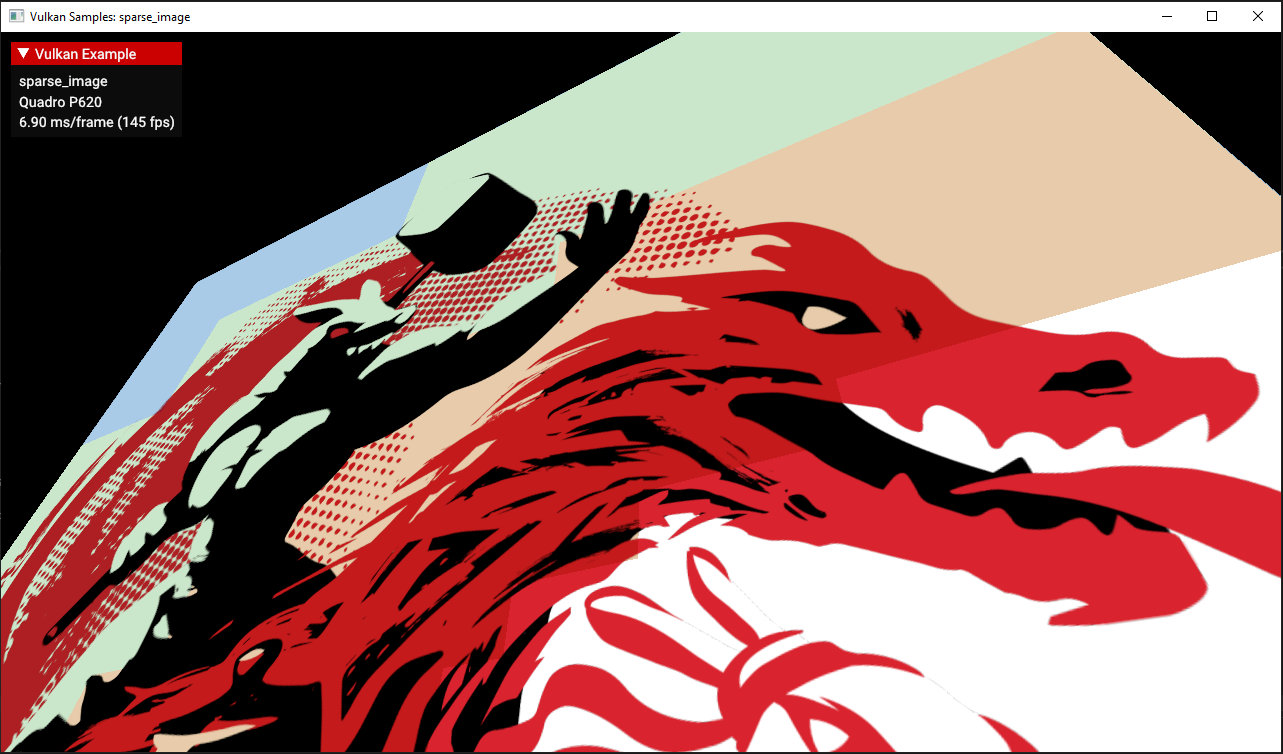
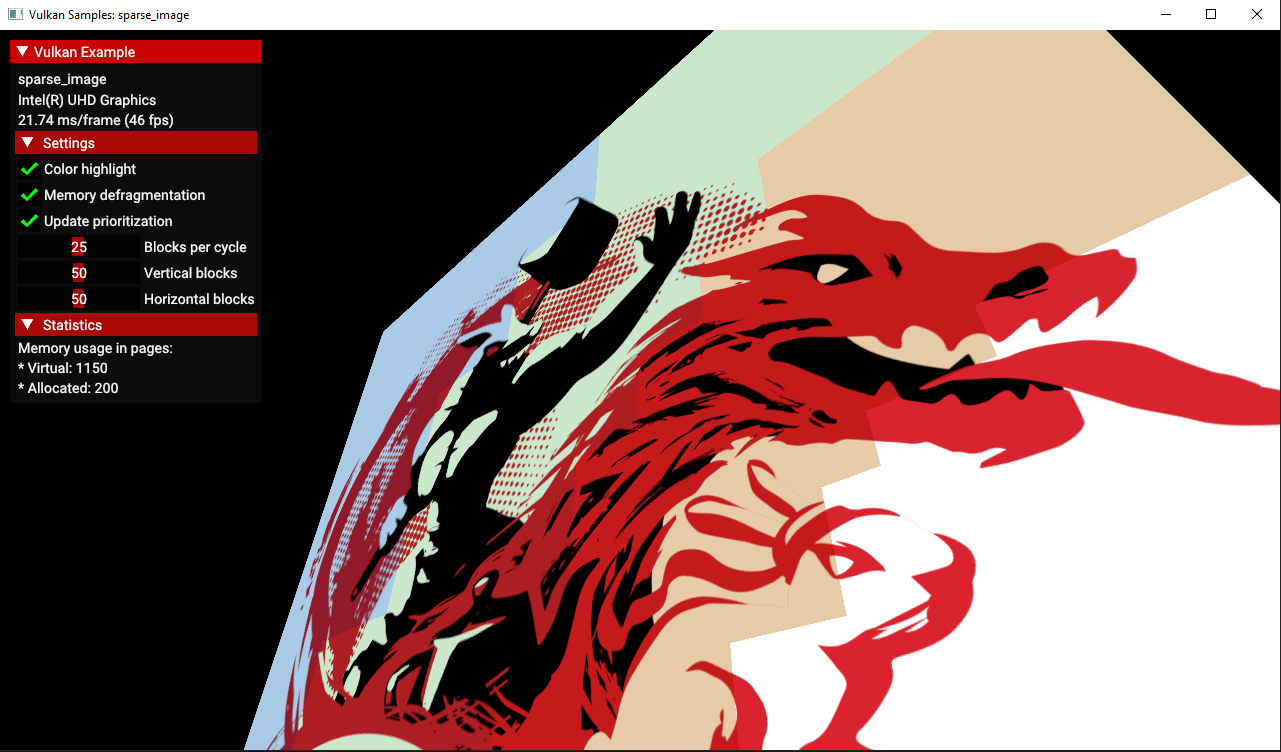
* Updated the screenshot * Put additional descriptions to README.adoc * Minor issues, cleanups & typo's

diff --git a/samples/extensions/sparse_image/sparse_image.cpp b/samples/extensions/sparse_image/sparse_image.cpp
@@ -35,11 +35,6 @@ SparseImage::~SparseImage()
 		vkDestroySampler(get_device().get_handle(), texture_sampler, nullptr);
 		vkDestroyImageView(get_device().get_handle(), virtual_texture.texture_image_view, nullptr);
 		vkDestroyImage(get_device().get_handle(), virtual_texture.texture_image, nullptr);
-
-		for (auto &page : virtual_texture.page_table)
-		{
-			page.page_memory_info.memory_sector.reset();
-		}
 	}
 }
 
@@ -218,7 +213,7 @@ void SparseImage::bind_sparse_image()
 			continue;
 		}
 
-		if (virtual_texture.page_table[page_index].valid)
+		if (page.valid)
 		{
 			continue;
 		}
@@ -240,14 +235,6 @@ void SparseImage::bind_sparse_image()
 
 	bind_sparse_info.imageBindCount = 1U;
 	bind_sparse_info.pImageBinds    = &sparse_image_memory_bind_info;
-
-	VkSparseImageOpaqueMemoryBindInfo sparse_image_opaque_memory_bind_info{};
-	sparse_image_opaque_memory_bind_info.image     = nullptr;
-	sparse_image_opaque_memory_bind_info.bindCount = 0U;
-	sparse_image_opaque_memory_bind_info.pBinds    = nullptr;
-
-	bind_sparse_info.imageOpaqueBindCount = 0U;
-	bind_sparse_info.pImageOpaqueBinds    = nullptr;
 
 	bind_sparse_info.signalSemaphoreCount = 1U;
 	bind_sparse_info.pSignalSemaphores    = &bound_semaphore;
@@ -441,10 +428,8 @@ std::vector<size_t> SparseImage::get_memory_dependency_for_the_block(size_t colu
  */
 void SparseImage::compare_mips_table()
 {
-	if (!virtual_texture.texture_block_update_set.empty())
-	{
-		virtual_texture.texture_block_update_set.clear();
-	}
+	virtual_texture.texture_block_update_set.clear();
+
 	for (size_t y = 0U; y < virtual_texture.current_mip_table.size(); y++)
 	{
 		for (size_t x = 0U; x < virtual_texture.current_mip_table[y].size(); x++)
@@ -550,7 +535,7 @@ void SparseImage::build_command_buffers()
 void SparseImage::process_texture_blocks()
 {
 	uint8_t block_counter;
-	block_counter = std::min<size_t>(blocks_to_update_per_cycle, virtual_texture.texture_block_update_set.size());
+	block_counter = std::min(blocks_to_update_per_cycle, virtual_texture.texture_block_update_set.size());
 	frame_counter_per_transfer++;
 
 	auto it = virtual_texture.texture_block_update_set.begin();
@@ -713,10 +698,6 @@ void SparseImage::free_unused_memory()
 		{
 			page.valid  = false;
 			auto result = page.page_memory_info.memory_sector->available_offsets.insert(page.page_memory_info.offset);
-			if (!result.second)
-			{
-				assert(false);
-			}
 			page.page_memory_info.memory_sector->virt_page_indices.erase(page_index);
 			page.page_memory_info.memory_sector.reset();
 		}
@@ -725,7 +706,7 @@ void SparseImage::free_unused_memory()
 	std::set<size_t> pages_to_reallocate;
 	uint8_t          sectors_to_reallocate = 0U;
 
-	auto &sectors = virtual_texture.memory_allocations.get_handle();
+	auto &sectors = virtual_texture.memory_allocations.get_memory_sectors();
 	for (auto it = sectors.begin(); it != sectors.end();)
 	{
 		if ((*it).expired())
@@ -750,7 +731,7 @@ void SparseImage::free_unused_memory()
 		it++;
 	}
 
-	if (memory_defragmentation && (pages_to_reallocate.size() > 0U))
+	if (memory_defragmentation && !pages_to_reallocate.empty())
 	{
 		std::unique_ptr<vkb::core::Buffer> reallocation_buffer = std::make_unique<vkb::core::Buffer>(get_device(), virtual_texture.page_size * pages_to_reallocate.size(), VK_BUFFER_USAGE_TRANSFER_DST_BIT | VK_BUFFER_USAGE_TRANSFER_SRC_BIT, VMA_MEMORY_USAGE_GPU_ONLY);
 
@@ -796,7 +777,7 @@ void SparseImage::free_unused_memory()
 		subresource_range.baseMipLevel   = virtual_texture.base_mip_level;
 
 		vkb::image_layout_transition(command_buffer, virtual_texture.texture_image, VK_IMAGE_LAYOUT_SHADER_READ_ONLY_OPTIMAL, VK_IMAGE_LAYOUT_TRANSFER_SRC_OPTIMAL, subresource_range);
-		vkCmdCopyImageToBuffer(command_buffer, virtual_texture.texture_image, VK_IMAGE_LAYOUT_TRANSFER_SRC_OPTIMAL, reallocation_buffer->get_handle(), copy_infos.size(), copy_infos.data());
+		vkCmdCopyImageToBuffer(command_buffer, virtual_texture.texture_image, VK_IMAGE_LAYOUT_TRANSFER_SRC_OPTIMAL, reallocation_buffer->get_handle(), static_cast<uint32_t>(copy_infos.size()), copy_infos.data());
 		device->flush_command_buffer(command_buffer, queue, true);
 
 		std::vector<std::shared_ptr<MemSector>> temp_sectors;
@@ -817,7 +798,7 @@ void SparseImage::free_unused_memory()
 		command_buffer = get_device().create_command_buffer(VK_COMMAND_BUFFER_LEVEL_PRIMARY, true);
 
 		vkb::image_layout_transition(command_buffer, virtual_texture.texture_image, VK_IMAGE_LAYOUT_TRANSFER_SRC_OPTIMAL, VK_IMAGE_LAYOUT_TRANSFER_DST_OPTIMAL, subresource_range);
-		vkCmdCopyBufferToImage(command_buffer, reallocation_buffer->get_handle(), virtual_texture.texture_image, VK_IMAGE_LAYOUT_TRANSFER_DST_OPTIMAL, copy_infos.size(), copy_infos.data());
+		vkCmdCopyBufferToImage(command_buffer, reallocation_buffer->get_handle(), virtual_texture.texture_image, VK_IMAGE_LAYOUT_TRANSFER_DST_OPTIMAL, static_cast<uint32_t>(copy_infos.size()), copy_infos.data());
 		vkb::image_layout_transition(command_buffer, virtual_texture.texture_image, VK_IMAGE_LAYOUT_TRANSFER_DST_OPTIMAL, VK_IMAGE_LAYOUT_SHADER_READ_ONLY_OPTIMAL, subresource_range);
 		device->flush_command_buffer(command_buffer, queue, true);
 
@@ -885,7 +866,7 @@ void SparseImage::process_stage(Stages next_stage)
 				this->next_stage = Stages::CalculateMipsTable;
 				update_required  = false;
 			}
-			else if ((frame_counter_per_transfer > FRAME_COUNTER_CAP) && frame_counter_feature)
+			else if (frame_counter_feature && (frame_counter_per_transfer > FRAME_COUNTER_CAP))
 			{
 				this->next_stage = Stages::CalculateMipsTable;
 			}
@@ -926,7 +907,7 @@ void SparseImage::draw()
 
 	submit_info.pWaitSemaphores      = wait_semaphores.data();
 	submit_info.pWaitDstStageMask    = wait_stage_masks.data();
-	submit_info.signalSemaphoreCount = signal_semaphores.size();
+	submit_info.signalSemaphoreCount = static_cast<uint32_t>(signal_semaphores.size());
 	submit_info.pSignalSemaphores    = signal_semaphores.data();
 
 	VK_CHECK(vkQueueSubmit(queue, 1U, &submit_info, VK_NULL_HANDLE));
@@ -1057,7 +1038,7 @@ void SparseImage::CalculateMipLevelData::calculate_mesh_coordinates()
  * @brief This is the very core function. It is responsible for calculating what level of detail is required for a particular BLOCK.
  *
  * BLOCKS are just the abstraction units used to describe the texture on-screen. Each block is the same size.
- * Number of vertical and horizontal blocks is described by the global constants ON_SCREEN_VERTICAL_BLOCKS and ON_SCREEN_HORIZONTAL_BLOCKS.
+ * Number of vertical and horizontal blocks is described by num_vertical_blocks and num_horizontal_blocks.
  * These constants are completely arbitrary - the more blocks, the better precision, the greater calculation overhead.
  *
  * What this function does, is based on the mesh data created in calculate_mesh_coordinates(), for each node within a mesh it calculates:
@@ -1425,6 +1406,14 @@ void SparseImage::create_sparse_texture_image()
 	sparse_image_create_info.extent.height = static_cast<uint32_t>(virtual_texture.height);
 	sparse_image_create_info.extent.depth  = 1U;
 
+	/*
+	    The number of mip-levels is arbitrary.
+	    5 LODs fit well the current design (6th would be used from too far away).
+
+	    Before incrementing this value, one should consider handling the mip tail and binding it correctly:
+	     - vkGetImageSparseMemoryRequirements()
+	     - VkSparseImageOpaqueMemoryBindInfo
+	 */
 	virtual_texture.base_mip_level = 0U;
 	virtual_texture.mip_levels     = 5U;
 
@@ -1445,7 +1434,6 @@ void SparseImage::create_sparse_texture_image()
 	// Calculating memory dependencies and defining total number of pages and page size
 
 	std::vector<VkSparseImageFormatProperties>   sparse_image_format_properties;
-	std::vector<VkSparseImageMemoryRequirements> sparse_image_memory_requirements;
 	VkMemoryRequirements                         mem_requirements;
 
 	uint32_t property_count;
@@ -1455,15 +1443,9 @@ void SparseImage::create_sparse_texture_image()
 	sparse_image_format_properties.resize(property_count);
 	vkGetPhysicalDeviceSparseImageFormatProperties(device->get_gpu().get_handle(), image_format, VK_IMAGE_TYPE_2D, VK_SAMPLE_COUNT_1_BIT, image_usage, VK_IMAGE_TILING_OPTIMAL, &property_count, sparse_image_format_properties.data());
 
-	vkGetImageSparseMemoryRequirements(get_device().get_handle(), virtual_texture.texture_image, &memory_req_count, nullptr);
-	sparse_image_memory_requirements.resize(memory_req_count);
-	vkGetImageSparseMemoryRequirements(get_device().get_handle(), virtual_texture.texture_image, &memory_req_count, sparse_image_memory_requirements.data());
-
 	vkGetImageMemoryRequirements(get_device().get_handle(), virtual_texture.texture_image, &mem_requirements);
 
 	virtual_texture.format_properties          = sparse_image_format_properties[0];
-	virtual_texture.memory_sparse_requirements = sparse_image_memory_requirements[0];
-	virtual_texture.mem_requirements           = mem_requirements;
 
 	// calculate page size
 	virtual_texture.page_size = virtual_texture.format_properties.imageGranularity.height * virtual_texture.format_properties.imageGranularity.width * 4U;
@@ -1511,10 +1493,10 @@ void SparseImage::create_sparse_texture_image()
 	// Memory allocation required data
 	virtual_texture.memory_allocations.device               = get_device().get_handle();
 	virtual_texture.memory_allocations.page_size            = virtual_texture.page_size;
-	virtual_texture.memory_allocations.memory_type_index    = get_device().get_memory_type(virtual_texture.mem_requirements.memoryTypeBits, VK_MEMORY_PROPERTY_DEVICE_LOCAL_BIT);
+	virtual_texture.memory_allocations.memory_type_index    = get_device().get_memory_type(mem_requirements.memoryTypeBits, VK_MEMORY_PROPERTY_DEVICE_LOCAL_BIT);
 	virtual_texture.memory_allocations.pages_per_allocation = PAGES_PER_ALLOC;
 
-	// Setting the data constant data for memory page binding via vkQueueBindSparse()
+	// Setting the constant data for memory page binding via vkQueueBindSparse()
 	for (size_t page_index = 0U; page_index < virtual_texture.page_table.size(); page_index++)
 	{
 		uint32_t mipLevel = get_mip_level(page_index);

diff --git a/samples/extensions/sparse_image/sparse_image.h b/samples/extensions/sparse_image/sparse_image.h
@@ -139,7 +139,7 @@ class SparseImage : public ApiVulkanSample
 			return memory_sectors.size();
 		}
 
-		std::list<std::weak_ptr<MemSector>> &get_handle()
+		std::list<std::weak_ptr<MemSector>> &get_memory_sectors()
 		{
 			return memory_sectors;
 		}
@@ -155,13 +155,9 @@ class SparseImage : public ApiVulkanSample
 		std::set<uint32_t> available_offsets;
 		std::set<size_t>   virt_page_indices;
 
-		MemSector(MemAllocInfo &mem_alloc_info)
+		MemSector(MemAllocInfo &mem_alloc_info) :
+		    MemAllocInfo(mem_alloc_info)
 		{
-			this->device               = mem_alloc_info.device;
-			this->page_size            = mem_alloc_info.page_size;
-			this->memory_type_index    = mem_alloc_info.memory_type_index;
-			this->pages_per_allocation = mem_alloc_info.pages_per_allocation;
-
 			VkMemoryAllocateInfo memory_allocate_info{};
 			memory_allocate_info.sType           = VK_STRUCTURE_TYPE_MEMORY_ALLOCATE_INFO;
 			memory_allocate_info.allocationSize  = page_size * pages_per_allocation;
@@ -229,13 +225,8 @@ class SparseImage : public ApiVulkanSample
 		// Set containing information which pages from the page_table should be updated (either loaded from CPU memory or blitted)
 		std::set<size_t> update_set;
 
-		// Vector of available memory pages (whole memory page pool is statically allocated at the beginning)
-		std::vector<size_t> available_memory_page_indices;
-
 		// Sparse-image-related format and memory properties
-		VkSparseImageFormatProperties   format_properties;
-		VkSparseImageMemoryRequirements memory_sparse_requirements;
-		VkMemoryRequirements            mem_requirements;
+		VkSparseImageFormatProperties format_properties;
 
 		std::vector<VkSparseImageMemoryBind> sparse_image_memory_bind;
 	};
@@ -271,7 +262,7 @@ class SparseImage : public ApiVulkanSample
 	bool memory_defragmentation  = true;
 	bool frame_counter_feature   = true;
 
-	size_t blocks_to_update_per_cycle = 10U;
+	size_t blocks_to_update_per_cycle = 25U;
 
 	size_t num_vertical_blocks   = 50U;
 	size_t num_horizontal_blocks = 50U;
@@ -290,8 +281,8 @@ class SparseImage : public ApiVulkanSample
 
 	Stages next_stage = Stages::Idle;
 
-	const VkFormat    image_format = VK_FORMAT_R8G8B8A8_SRGB;
-	VkImageUsageFlags image_usage  = VK_IMAGE_USAGE_TRANSFER_DST_BIT | VK_IMAGE_USAGE_TRANSFER_SRC_BIT | VK_IMAGE_USAGE_SAMPLED_BIT;
+	const VkFormat          image_format = VK_FORMAT_R8G8B8A8_SRGB;
+	const VkImageUsageFlags image_usage  = VK_IMAGE_USAGE_TRANSFER_DST_BIT | VK_IMAGE_USAGE_TRANSFER_SRC_BIT | VK_IMAGE_USAGE_SAMPLED_BIT;
 
 	VirtualTexture virtual_texture;
 
@@ -309,8 +300,8 @@ class SparseImage : public ApiVulkanSample
 
 	glm::mat4 current_mvp_transform;
 
-	VkPipeline       sample_pipeline{};
-	VkPipelineLayout sample_pipeline_layout{};
+	VkPipeline       sample_pipeline;
+	VkPipelineLayout sample_pipeline_layout;
 
 	VkDescriptorSetLayout descriptor_set_layout;
 	VkDescriptorSet       descriptor_set;
